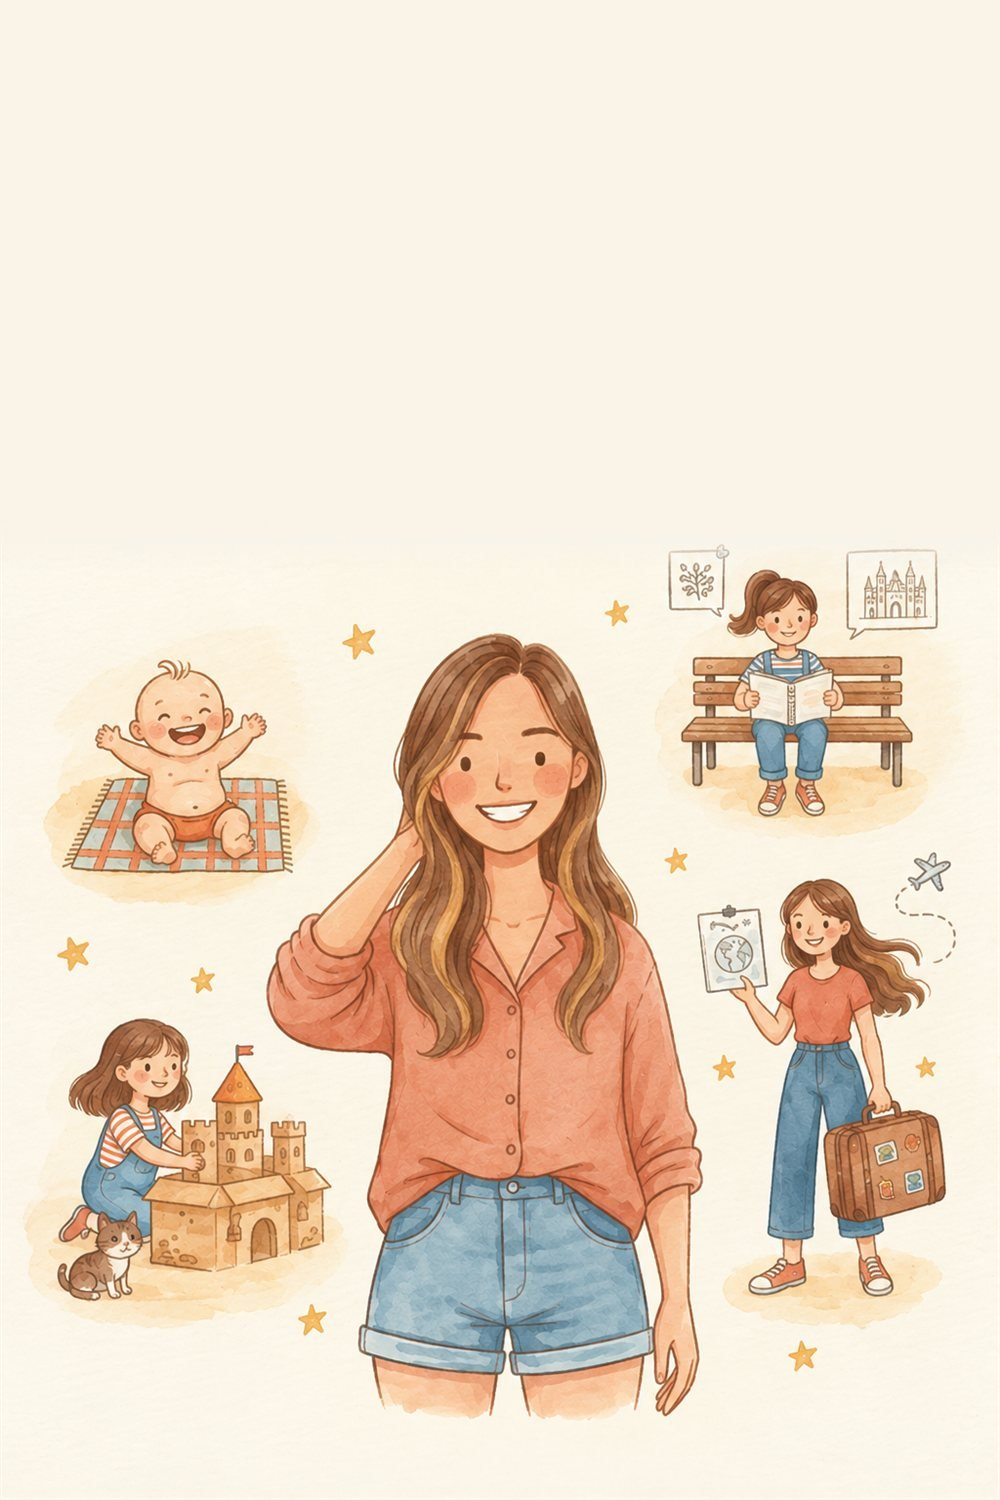
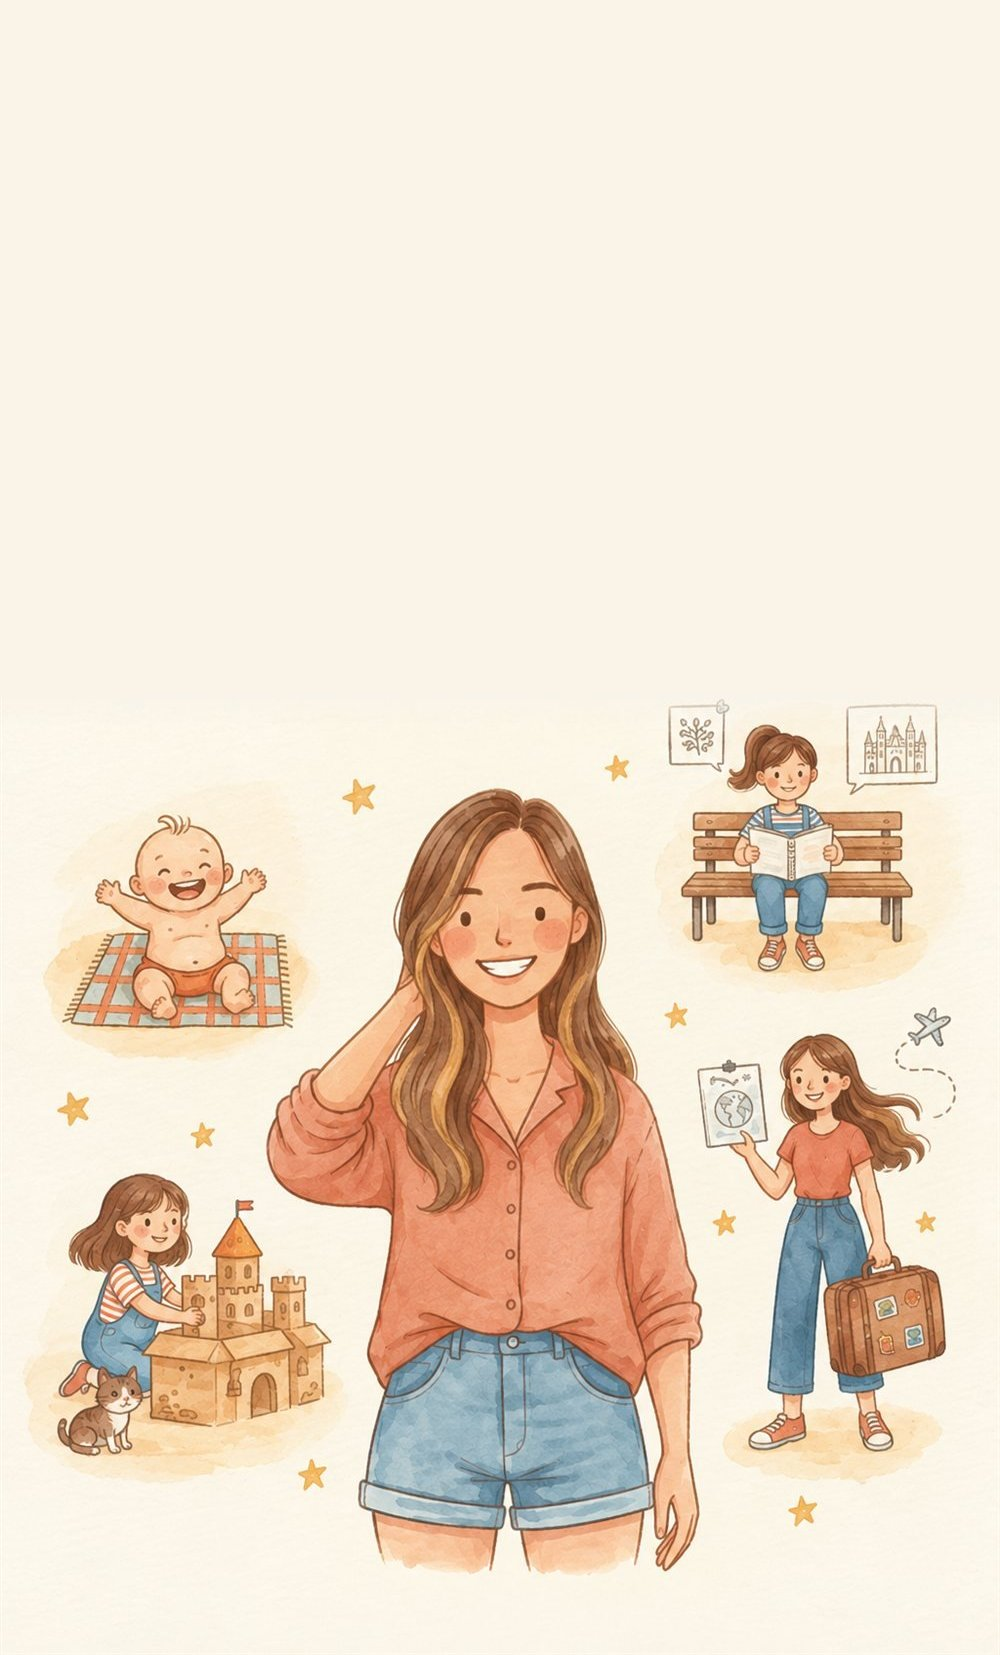
Páginas interiores: el texto y la ilustración ya no se juntan (#25)
* Páginas interiores: el texto arriba y la ilustración debajo, sin juntarse

Claude-Session: https://claude.ai/code/session_01ANqq3of1DofgX6WTGeMuW8

* Páginas interiores: texto algo más compacto para dejar sitio a la ilustración

Claude-Session: https://claude.ai/code/session_01ANqq3of1DofgX6WTGeMuW8

---------

Changed region(s): [[0.031, 0.368, 0.961, 0.9507], [0.341, 0.3987, 0.372, 0.4907], [0.589, 0.3987, 0.62, 0.4293]]

diff --git a/index.html b/index.html
@@ -147,8 +147,11 @@
   /* Página interior: ilustración abajo y texto arriba, siempre con la misma letra y el mismo color */
   .pag-libro { position: absolute; inset: 0; container-type: inline-size; background: #F9F3E8 center / cover no-repeat; overflow: hidden; }
   /* Con portada elegida: la acuarela de la portada hace de marco y la hoja de papel va encima con doble línea */
-  .pag-libro .hoja { position: absolute; inset: 5.5cqw; overflow: hidden; background: #F9F3E8; box-shadow: 0 .4cqw 1.2cqw rgba(40, 25, 10, .25); }
+  .pag-libro .hoja { position: absolute; inset: 5.5cqw; overflow: hidden; display: flex; flex-direction: column; background: #F9F3E8; box-shadow: 0 .4cqw 1.2cqw rgba(40, 25, 10, .25); }
   .pag-libro .hoja::after { content: ''; position: absolute; inset: 1.3cqw; border: .3cqw solid var(--tinta-pag, #C4622D); outline: .12cqw solid var(--tinta-pag, #C4622D); outline-offset: -.75cqw; pointer-events: none; }
+  .pag-libro .hoja .panel { position: static; height: auto; flex: none; padding: 6cqw 7cqw 1cqw; background: none; }
+  .pag-libro .hoja .panel::after { content: none; }
+  .pag-libro .hoja .ilu { position: relative; inset: auto; flex: 1; min-height: 0; background-size: cover; background-position: center bottom; -webkit-mask-image: linear-gradient(transparent, #000 4%); mask-image: linear-gradient(transparent, #000 4%); }
   .pag-libro .estrella { color: #E3A93C; font-size: 3.4cqw; line-height: 1; margin: -.6cqw 0 1.6cqw; }
   .pag-libro .ilu { position: absolute; inset: 0; background-repeat: no-repeat; background-size: 100% auto; background-position: center bottom; }
   .pag-libro .panel { position: absolute; left: 0; right: 0; top: 0; height: var(--panel, 38%); background: #F9F3E8; display: flex; flex-direction: column; align-items: center; justify-content: center; text-align: center; padding: 6cqw 8cqw 2cqw; }
@@ -435,7 +438,7 @@
 
 <div class="barra"><div><small>Tu libro desde</small><b>43 €</b></div><a href="#portada">Crear el libro</a></div>
 
-<script src="portadas.js?v=20261016e"></script>
+<script src="portadas.js?v=20261016f"></script>
 <script>
   // Las ocho portadas (portadas.js): cada diseño con su color fijo y el nombre escrito en la etiqueta
   function portada(diseno, nombre, calidad) { return '<div class="real">' + TUSPortadas.svg(diseno, nombre, null, { calidad: calidad }) + '</div>'; }
@@ -457,9 +460,10 @@
     libro.querySelectorAll('[data-pag]').forEach(function (el) {
       var p = PAGINAS[el.dataset.pag];
       // Las páginas llevan el marco de la portada del libro (la misma que se ve delante)
-      el.innerHTML = '<div class="pag-libro" role="img" aria-label="' + p.alt + '" style="--panel:' + p.panel + ';--tinta-pag:' + DIS.titulo + ';background-image:url(\'' + TUSPortadas.imagen(DIS, 'delante') + '\')">' +
-        '<div class="hoja"><div class="ilu" style="background-image:url(\'' + p.img + '\')"></div>' +
-        '<div class="panel"><h4>' + p.titulo + '</h4><div class="estrella">★</div><p>' + p.texto + '</p></div></div></div>';
+      // Texto arriba (lo que ocupe) y la ilustración debajo: nunca se juntan
+      el.innerHTML = '<div class="pag-libro" role="img" aria-label="' + p.alt + '" style="--tinta-pag:' + DIS.titulo + ';background-image:url(\'' + TUSPortadas.imagen(DIS, 'delante') + '\')">' +
+        '<div class="hoja"><div class="panel"><h4>' + p.titulo + '</h4><div class="estrella">★</div><p>' + p.texto + '</p></div>' +
+        '<div class="ilu" style="background-image:url(\'' + p.img + '\')"></div></div></div>';
     });
 
     // La página del libro es algo más alargada que la portada: que la portada la llene entera, sin franjas

diff --git a/imprenta.js b/imprenta.js
@@ -21,18 +21,19 @@
       '<div class="tus-pag" style="position:relative;overflow:hidden;width:' + PAG.w + 'mm;height:' + PAG.h + 'mm;background:' + d.papel + '">' +
       '<img src="' + TUSPortadas.imagen(d, 'delante', 'hd') + '" style="position:absolute;inset:0;width:100%;height:100%;object-fit:cover">' +
       '<div style="position:absolute;left:' + M.x + 'mm;right:' + M.x + 'mm;top:' + M.y + 'mm;bottom:' + M.y + 'mm;overflow:hidden;background:' + PAPEL + ';box-shadow:0 .6mm 1.6mm rgba(40,25,10,.25)">' +
-        // La ilustración (3:4, fondo papel) llena la hoja; se funde con el papel para que no se note el borde
-        '<img src="' + esc(o.img) + '" style="position:absolute;inset:0;width:100%;height:100%;object-fit:cover;object-position:center bottom;mix-blend-mode:multiply">' +
-        '<div style="position:absolute;inset:2.6mm;border:.6mm solid ' + d.titulo + ';pointer-events:none"></div>' +
-        '<div style="position:absolute;inset:3.9mm;border:.25mm solid ' + d.titulo + ';pointer-events:none"></div>';
+        '<div style="position:absolute;inset:2.6mm;border:.6mm solid ' + d.titulo + ';pointer-events:none;z-index:2"></div>' +
+        '<div style="position:absolute;inset:3.9mm;border:.25mm solid ' + d.titulo + ';pointer-events:none;z-index:2"></div>' +
+        // La hoja es una columna: arriba el texto (lo que ocupe) y debajo la ilustración, que nunca se mete en el texto.
+        // La ilustración llega con la parte de arriba vacía (así se pide a la IA): se recorta por arriba si hace falta.
+        '<div style="position:absolute;inset:0;display:flex;flex-direction:column">';
     if (conTexto) {
-      // Texto arriba, en la parte que la ilustración deja despejada
-      h += '<div style="position:absolute;left:0;top:0;width:100%;height:40%;box-sizing:border-box;padding:14mm 14mm 2mm;display:flex;flex-direction:column;align-items:center;justify-content:center;text-align:center">' +
+      h += '<div style="flex:none;box-sizing:border-box;padding:13mm 13mm 3mm;text-align:center">' +
           '<div style="font-family:\'Dancing Script\',cursive;font-weight:500;font-size:14mm;line-height:1.1;color:' + d.titulo + '">' + esc(o.titulo) + '</div>' +
-          '<div style="color:#E3A93C;font-size:6.5mm;line-height:1;margin:3mm 0 4mm">★</div>' +
-          '<p style="font-family:\'Cormorant Garamond\',serif;font-weight:500;font-size:6.6mm;line-height:1.5;color:' + d.titulo + ';margin:0">' + (o.texto || '') + '</p>' +
+          '<div style="color:#E3A93C;font-size:6mm;line-height:1;margin:2.5mm 0 3mm">★</div>' +
+          '<p style="font-family:\'Cormorant Garamond\',serif;font-weight:500;font-size:6.1mm;line-height:1.45;color:' + d.titulo + ';margin:0">' + (o.texto || '') + '</p>' +
         '</div>';
     }
+    h += '<div style="flex:1;min-height:0;position:relative"><img src="' + esc(o.img) + '" style="position:absolute;inset:0;width:100%;height:100%;object-fit:cover;object-position:center bottom;mix-blend-mode:multiply;-webkit-mask-image:linear-gradient(transparent,#000 4%);mask-image:linear-gradient(transparent,#000 4%)"></div></div>';
     return h + '</div></div>';
   }
   // Página sin marco (pedidos anteriores a las portadas nuevas)

diff --git a/muestra-imprenta.html b/muestra-imprenta.html
@@ -50,8 +50,8 @@
   <div class="fila" id="paginas"></div>
 </section>
 
-<script src="portadas.js?v=20261016d"></script>
-<script src="imprenta.js?v=20261016d"></script>
+<script src="portadas.js?v=20261016f"></script>
+<script src="imprenta.js?v=20261016f"></script>
 <script>
   var $ = function (id) { return document.getElementById(id); };
   TUSPortadas.disenos.forEach(function (d) { var o = document.createElement('option'); o.value = d.n; o.textContent = d.n + ' · ' + d.nombre; $('estilo').appendChild(o); });

diff --git a/formulario.html b/formulario.html
@@ -711,7 +711,7 @@
 
 </div>
 
-<script src="portadas.js?v=20261016d"></script>
+<script src="portadas.js?v=20261016f"></script>
 <script>
 let cur = 0;
 const TOTAL = 7;
